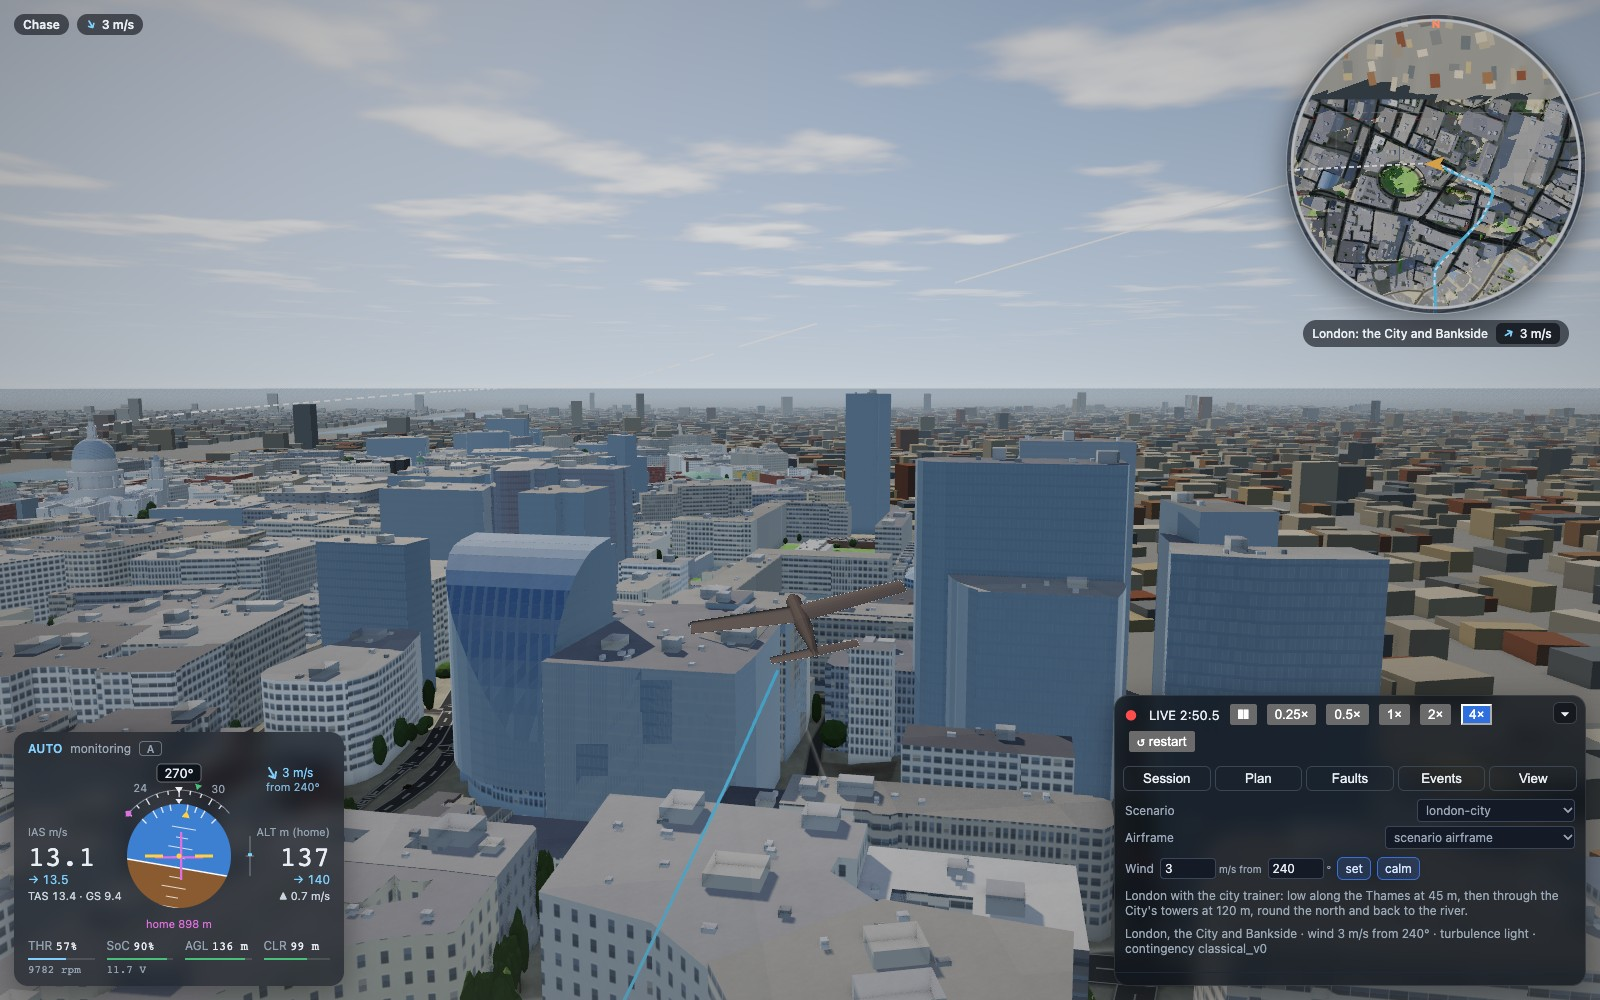
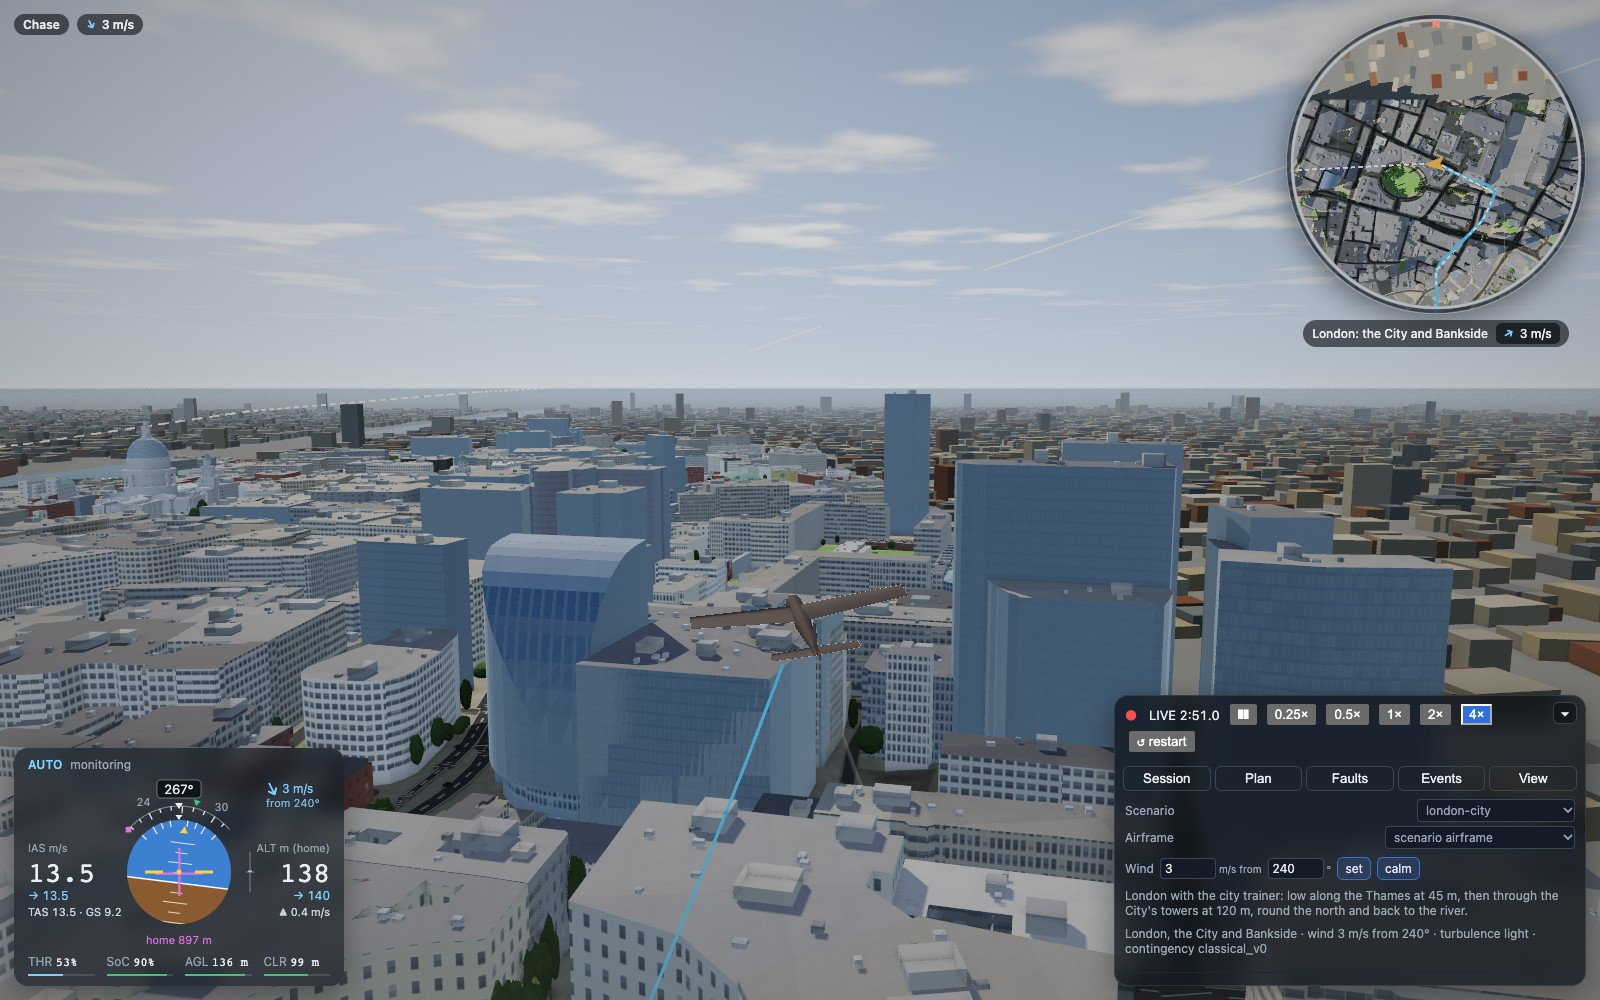
feat(skyview): sparer avionics: no zone letters, no rpm or volts
At the owner's request the header keeps only the mode and the
contingency's phase, and the four gauges lose their second line (rpm under
throttle, volts under charge). The four-panel layout still shows both.

diff --git a/web/skyview/src/quad/Avionics.tsx b/web/skyview/src/quad/Avionics.tsx
@@ -111,30 +111,10 @@ function Ball({ s }: { s: Sample }) {
   );
 }
 
-/** The safe zones, most relevant first: the one chosen (amber), those within glide (green), then
- * the rest; five at most, and a count of the others. */
-function Zones({ s, replay }: { s: Sample; replay: Replay }) {
-  const zones = replay.manifest.site.safe_zones;
-  if (zones.length === 0) return null;
-  const state = (k: number) => (s.zone === k ? 2 : (s.reachMask & (1 << k)) !== 0 ? 1 : 0);
-  const order = zones.map((z, k) => ({ id: z.id, k, st: state(k) })).sort((a, b) => b.st - a.st || a.k - b.k);
-  const more = order.length - 5;
-  return (
-    <span className="zonechips" title="Safe zones: amber chosen, green within glide">
-      {order.slice(0, 5).map((z) => (
-        <span key={z.id} className={`zchip ${["", "reach", "sel"][z.st]}`}>
-          {z.id}
-        </span>
-      ))}
-      {more > 0 && <span className="zchip more">+{more}</span>}
-    </span>
-  );
-}
-
 /** ``x`` with its unit, or a dash when the flight did not record it. */
 const val = (x: number, unit: string, digits = 0) => (Number.isFinite(x) ? `${x.toFixed(digits)}${unit}` : "—");
 
-function Cell(props: { label: string; value: string; frac: number; tone: string; sub?: string; testid?: string }) {
+function Cell(props: { label: string; value: string; frac: number; tone: string; testid?: string }) {
   const f = Number.isFinite(props.frac) ? clamp(props.frac, 0, 1) : 0;
   return (
     <div className={`av-cell ${props.tone}`} data-testid={props.testid}>
@@ -142,7 +122,6 @@ function Cell(props: { label: string; value: string; frac: number; tone: string;
       <span className="bar">
         <i style={{ width: `${100 * f}%` }} />
       </span>
-      {props.sub && props.sub !== "—" && <small>{props.sub}</small>}
     </div>
   );
 }
@@ -163,7 +142,6 @@ export function Avionics({ s, replay }: { s: Sample; replay: Replay }) {
       <div className="av-head">
         <span className="av-mode">{modes[s.mode] ?? "?"}</span>
         <span className={s.failed ? "av-phase warn" : "av-phase"}>{s.failed ? phases[s.phase] : "monitoring"}</span>
-        <Zones s={s} replay={replay} />
       </div>
       {al.length > 0 && (
         <div className="av-alerts">
@@ -231,13 +209,12 @@ export function Avionics({ s, replay }: { s: Sample; replay: Replay }) {
         </text>
       </svg>
       <div className="av-cells">
-        <Cell label="THR" value={val(100 * s.throttle, "%")} frac={s.throttle} tone="neutral" sub={val(s.rpm, " rpm")} />
+        <Cell label="THR" value={val(100 * s.throttle, "%")} frac={s.throttle} tone="neutral" />
         <Cell
           label="SoC"
           value={val(100 * s.soc, "%")}
           frac={s.soc}
           tone={s.soc < 0.15 ? "alert" : s.soc < 0.3 ? "warn" : "ok"}
-          sub={val(s.batteryV, " V", 1)}
         />
         <Cell label="AGL" value={val(s.hagl, " m")} frac={s.hagl / 150} tone={s.hagl < 40 ? "warn" : "ok"} testid="gauge-agl" />
         <Cell label="CLR" value={val(clr, " m")} frac={clr / 150} tone={clr < 10 ? "alert" : clr < 30 ? "warn" : "ok"} testid="gauge-clearance" />

diff --git a/web/skyview/src/styles.css b/web/skyview/src/styles.css
@@ -926,30 +926,6 @@ dd {
   color: #f0a830;
   font-weight: 600;
 }
-.av-head .zonechips {
-  margin: 0;
-  gap: 3px;
-  flex-wrap: nowrap;
-  overflow: hidden;
-}
-.av-head .zchip {
-  min-width: 15px;
-  padding: 0 3px;
-  border: 1px solid rgba(147, 161, 176, 0.6);
-  background: transparent;
-  color: #93a1b0;
-  font-weight: 500;
-}
-.av-head .zchip.reach {
-  border-color: #49c07a;
-  background: rgba(73, 192, 122, 0.25);
-  color: #bdf0cf;
-}
-.av-head .zchip.sel {
-  border-color: #f0a830;
-  background: rgba(240, 168, 48, 0.3);
-  color: #ffe7bf;
-}
 .av-wind {
   fill: #7fd0ff;
   font-size: 12px;
@@ -1100,12 +1076,6 @@ dd {
 }
 .av-cell.alert .av-v {
   color: #ff8a8d;
-}
-.av-cell small {
-  display: block;
-  margin-top: 3px;
-  color: #93a1b0;
-  font: 11px ui-monospace, monospace;
 }
 .avionics .touchdown-card {
   margin: 8px 14px 0;
@@ -1558,7 +1528,4 @@ dd {
   .quad .gl {
     position: fixed;
   }
-}
-.av-head .zchip.more {
-  border-style: dashed;
 }

diff --git a/docs/07_world_and_skyview_spec.md b/docs/07_world_and_skyview_spec.md
@@ -222,15 +222,15 @@ The tracks themselves (the trail by phase, the mission, a proposal, the active p
 
 **Avionics** (bottom left, `quad/Avionics.tsx`; the owner's design, chosen from sketches on 23 Oct 2026). One compact panel over the picture, without an edge:
 
-- **Header:** the autopilot mode, the contingency's phase (amber once it acts) and the safe zones, most relevant first: the chosen one amber, those within glide green, five at most and a count of the rest. Alerts and faults appear on a line beneath, only while active.
+- **Header:** the autopilot mode and the contingency's phase (amber once it acts). Alerts and faults appear on a line beneath, only while active.
 - **The attitude ball** under a heading-up arc:
   - the ball has a pitch ladder, a roll scale and pointer, and the flight director: magenta bars for the roll and pitch the stack demands, relative to the aircraft;
   - the arc carries ticks every 10°, a heading box, the ground track (green) and the bearing to home or the chosen zone (magenta), pinned to the arc's ends when out of view.
 - **Either side:** airspeed (IAS) and height (m above home on a world site) in large figures. Under each, the autopilot's target in cyan; then TAS (truth) and ground speed, or the climb rate, which also drives a small bar beside the height. The wind, in the top-right corner, is an arrow drawn nose-up with its speed and origin.
-- **Beneath:** the distance to home or the chosen zone, then four gauges: throttle (with rpm), state of charge (with volts), height above the ground and clearance above obstacles (amber under 30 m, red under 10 m). A value the flight did not record shows as a dash.
+- **Beneath:** the distance to home or the chosen zone, then four gauges: throttle, state of charge, height above the ground and clearance above obstacles (amber under 30 m, red under 10 m). A value the flight did not record shows as a dash.
 - The touchdown or collision card.
 
-In `?layout=quad`, `quad/Instruments.tsx` keeps the larger set: the primary flight display, a navigation display, the eight gauges and the badges.
+In `?layout=quad`, `quad/Instruments.tsx` keeps the larger set: the primary flight display, a navigation display, the eight gauges, the zone chips and the badges.
 
 **Controls** (bottom right, `quad/ControlDeck.tsx`):
 
